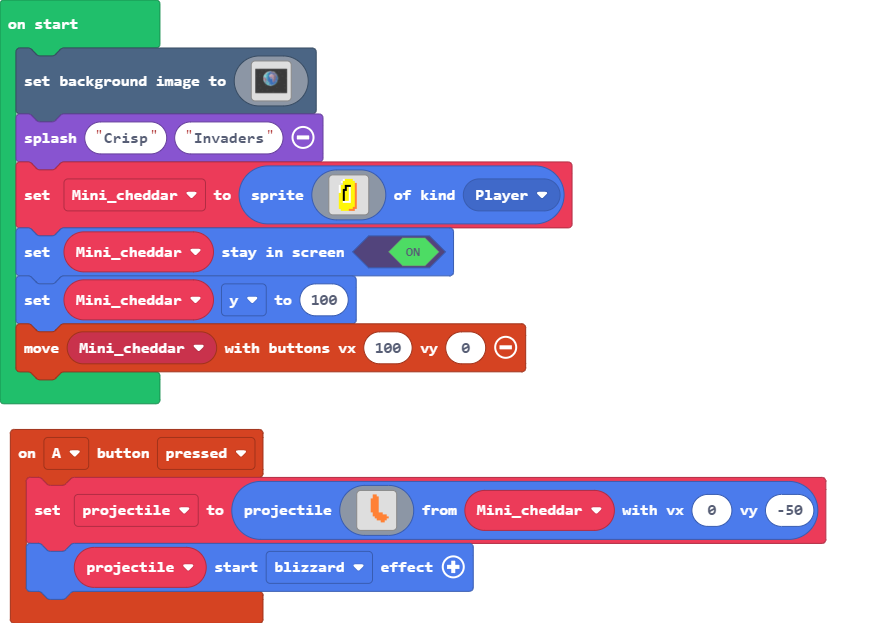
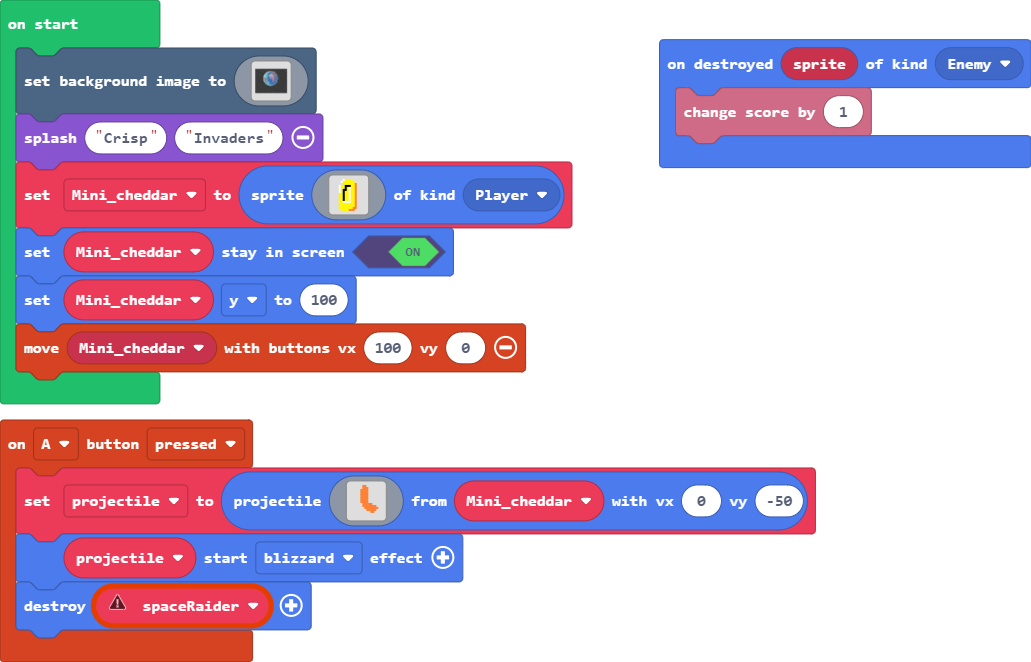
Update main.blocks, main.ts

diff --git a/main.ts b/main.ts
@@ -1,6 +1,11 @@
 controller.A.onEvent(ControllerButtonEvent.Pressed, function () {
+    let spaceRaider: Sprite = null
     projectile = sprites.createProjectileFromSprite(assets.image`myImage3`, Mini_cheddar, 0, -50)
     projectile.startEffect(effects.blizzard)
+    spaceRaider.destroy()
+})
+sprites.onDestroyed(SpriteKind.Enemy, function (sprite) {
+    info.changeScoreBy(1)
 })
 let projectile: Sprite = null
 let Mini_cheddar: Sprite = null
